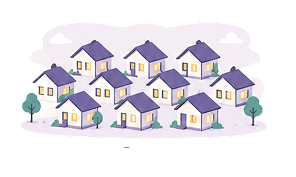
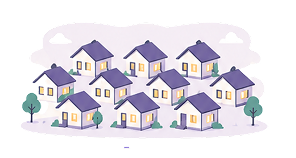
hm

Changed region(s): [[0.0608, 0.2278, 0.9122, 0.8608], [0.5777, 0.8608, 0.6081, 0.8861]]

diff --git a/app/components/landingPage/Footer/Footer.tsx b/app/components/landingPage/Footer/Footer.tsx
@@ -2,8 +2,20 @@ import "./Footer.css";
 
 export default function Footer() {
   return (
-    <footer>
-      Footer
-    </footer>
+    <div className="footer-section">
+      {/* ini itu container untuk 4 kotak berjejer ke samping itu loh */}
+      <div>
+        {/* ini kotak 1 */}
+        <div>
+          {/* logo */}
+          {/* text */}
+        </div>
+
+        {/* kotak 2 dan seterus nya */}
+      </div>
+
+      {/* ini untuk kotak yang warna biru */}
+      <div></div>
+    </div>
   );
 }
